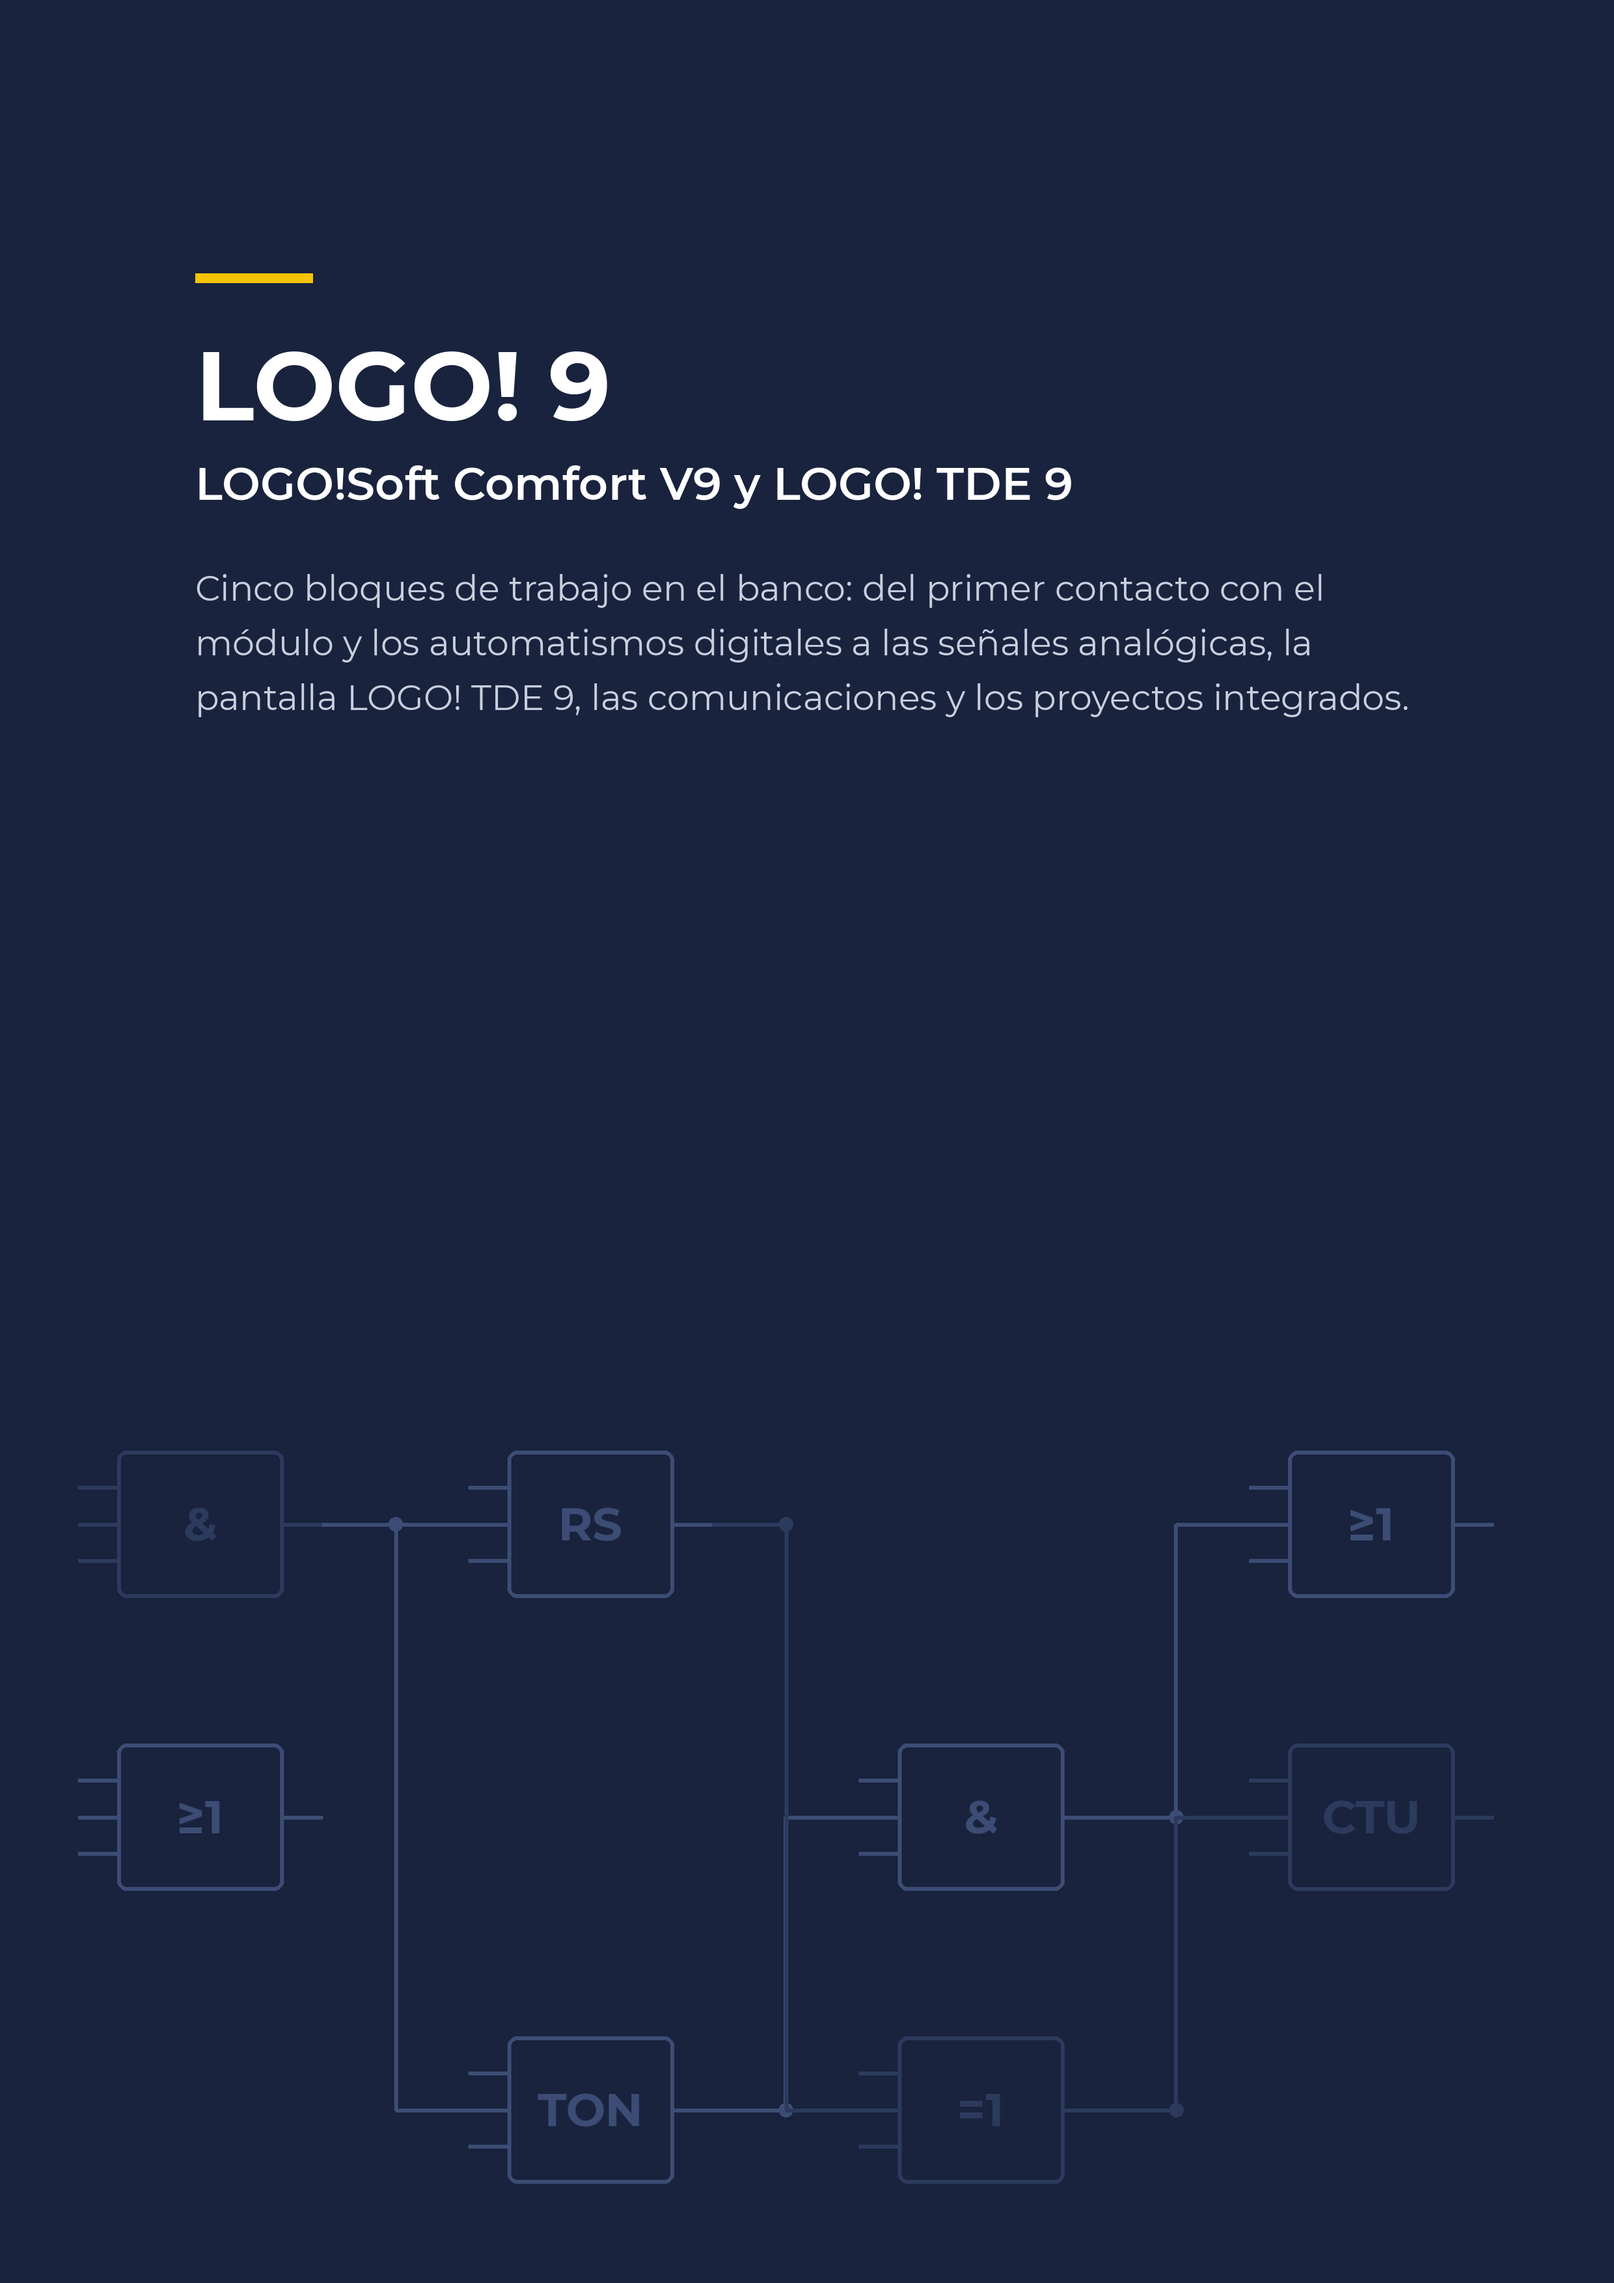
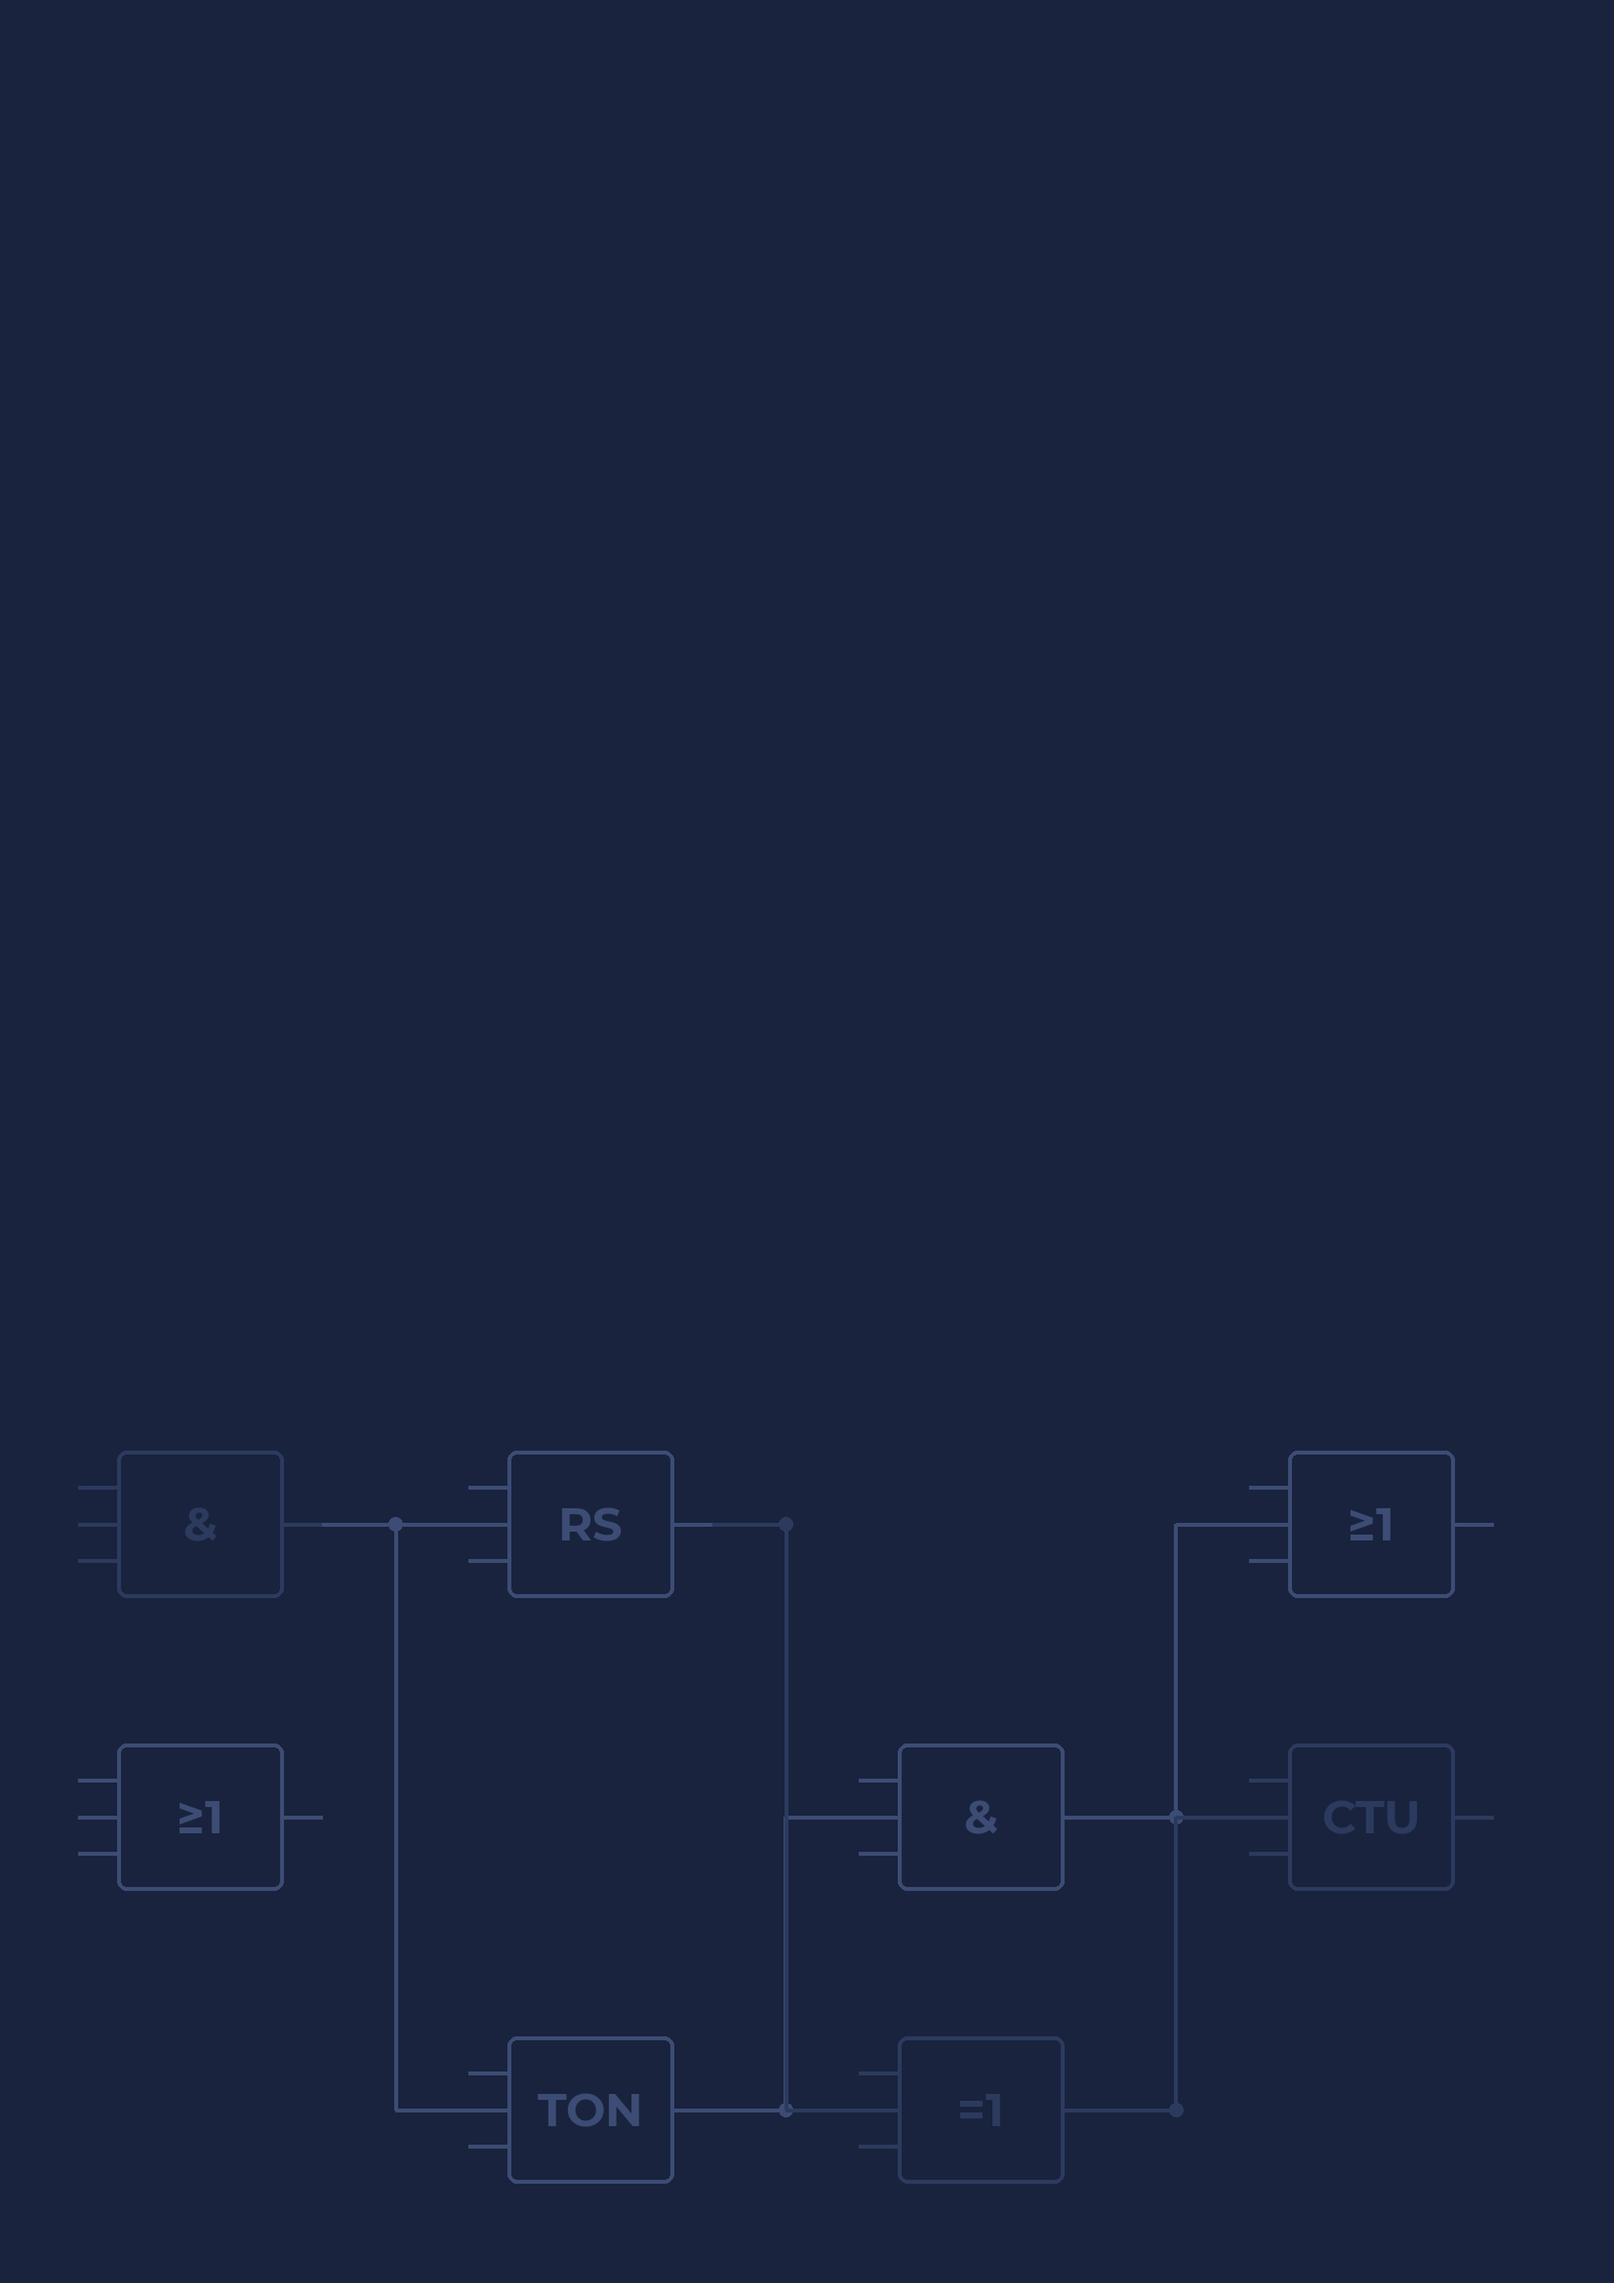
Pies solo con número, sin encabezados, contraportada sin texto
Claude-Session: https://claude.ai/code/session_01M2qFGLwb8HVWzfFEaX54FN

diff --git a/herramientas/maquetar_manual.js b/herramientas/maquetar_manual.js
@@ -323,15 +323,11 @@ function tabla(el, ctx) {
 
 // ---------------------------------------------------------------- cabeceras y pies
 function rotuloCab(texto, derecha) {
-  return new Paragraph({ style: "Cabecera", alignment: derecha ? AlignmentType.RIGHT : AlignmentType.LEFT,
-    children: [new TextRun({ text: texto })] });
+  return new Paragraph({ children: [] });
 }
 function pieNum(derecha) {
-  const num = new TextRun({ children: [PageNumber.CURRENT], bold: true, color: C.navy, size: 20, font: F.sans });
-  const sep = new TextRun({ text: "   ■   ", color: C.yellow, size: 14 });
-  const marca = new TextRun({ text: "ITECAM", color: C.gris, size: 15, font: F.sans, characterSpacing: 20 });
   return new Paragraph({ style: "Pie", alignment: derecha ? AlignmentType.RIGHT : AlignmentType.LEFT,
-    children: derecha ? [marca, sep, num] : [num, sep, marca] });
+    children: [new TextRun({ children: [PageNumber.CURRENT], bold: true, color: C.navy, size: 20, font: F.sans })] });
 }
 function pestana(et, pos, lado) {
   const w = 1.2, h = 2.8;
@@ -342,8 +338,8 @@ function pestana(et, pos, lado) {
       behindDocument: false, allowOverlap: true, lockAnchor: true, layoutInCell: false, wrap: { type: TextWrappingType.NONE } } });
 }
 function cabecerasCapitulo(textoImpar, textoPar, tab) {
-  const cab = (texto, der, conTab) => new Paragraph({ style: "Cabecera", alignment: der ? AlignmentType.RIGHT : AlignmentType.LEFT,
-    children: [...(tab && conTab ? [pestana(tab.et, tab.pos, der ? "der" : "izq")] : []), new TextRun({ text: texto })] });
+  const cab = (texto, der, conTab) => new Paragraph({ alignment: der ? AlignmentType.RIGHT : AlignmentType.LEFT,
+    children: [...(tab && conTab ? [pestana(tab.et, tab.pos, der ? "der" : "izq")] : [])] });
   return {
     headers: {
       default: new Header({ children: [cab(textoImpar, true, true)] }),

diff --git a/herramientas/graficos.py b/herramientas/graficos.py
@@ -159,27 +159,6 @@ def contraportada_completa():
     pat = Image.new("RGB", (W, int(H * 0.42)), NAVY)
     patron_fup(ImageDraw.Draw(pat), 0, 40, W, pat.height - 60, NAVY_2, NAVY_3)
     img.paste(pat.resize((W3, int(H3 * 0.42)), Image.LANCZOS), (0, int(H3 * 0.58)))
-    x0, y = 300, 420
-    d.rectangle([x0, y, x0 + 180, y + 14], fill=YELLOW)
-    y += 80
-    d.text((x0, y), "LOGO! 9", font=mf("Bold", 150), fill=WHITE)
-    y += 200
-    d.text((x0, y), "LOGO!Soft Comfort V9 y LOGO! TDE 9", font=mf("SemiBold", 70), fill=WHITE)
-    y += 170
-    texto = ("Cinco bloques de trabajo en el banco: del primer contacto con el módulo y los "
-             "automatismos digitales a las señales analógicas, la pantalla LOGO! TDE 9, las "
-             "comunicaciones y los proyectos integrados.")
-    f = mf("Regular", 54)
-    linea, lineas = "", []
-    for p in texto.split():
-        prueba = (linea + " " + p).strip()
-        if d.textlength(prueba, font=f) > W3 - 2 * x0:
-            lineas.append(linea); linea = p
-        else:
-            linea = prueba
-    lineas.append(linea)
-    for l in lineas:
-        d.text((x0, y), l, font=f, fill=(201, 207, 221)); y += 84
     img.save(OUT / "contraportada_completa.png", optimize=True)
 
 
